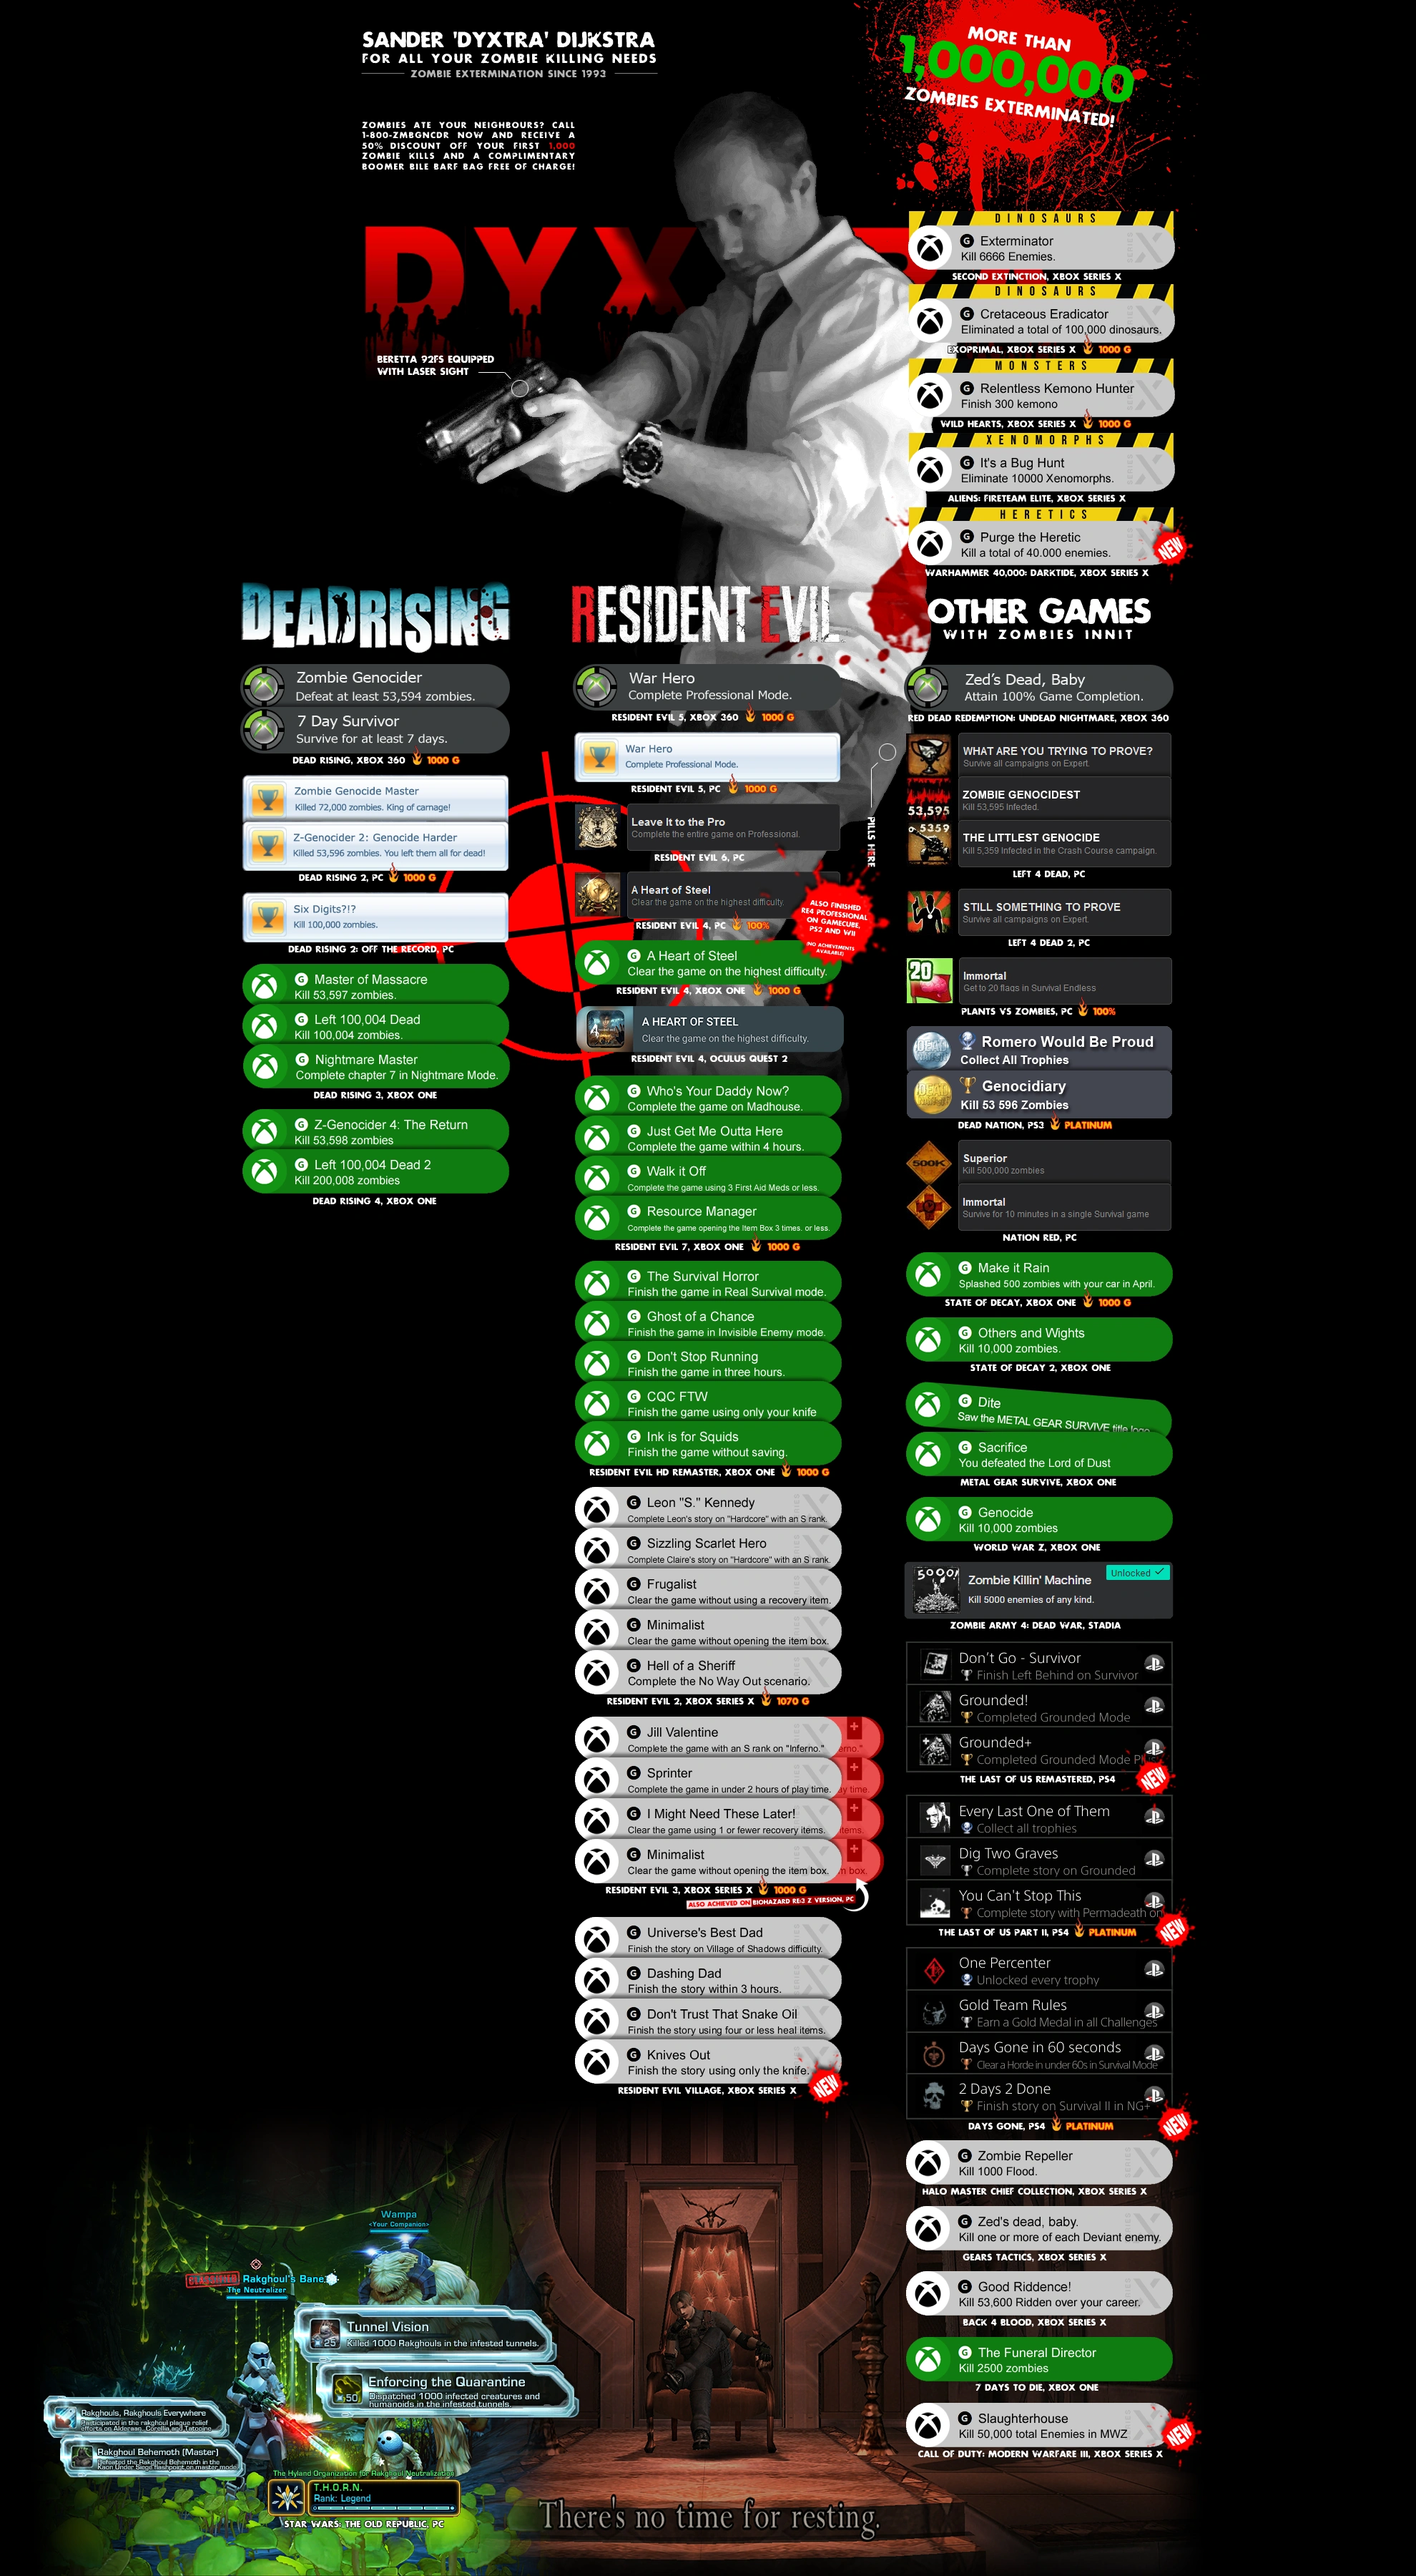
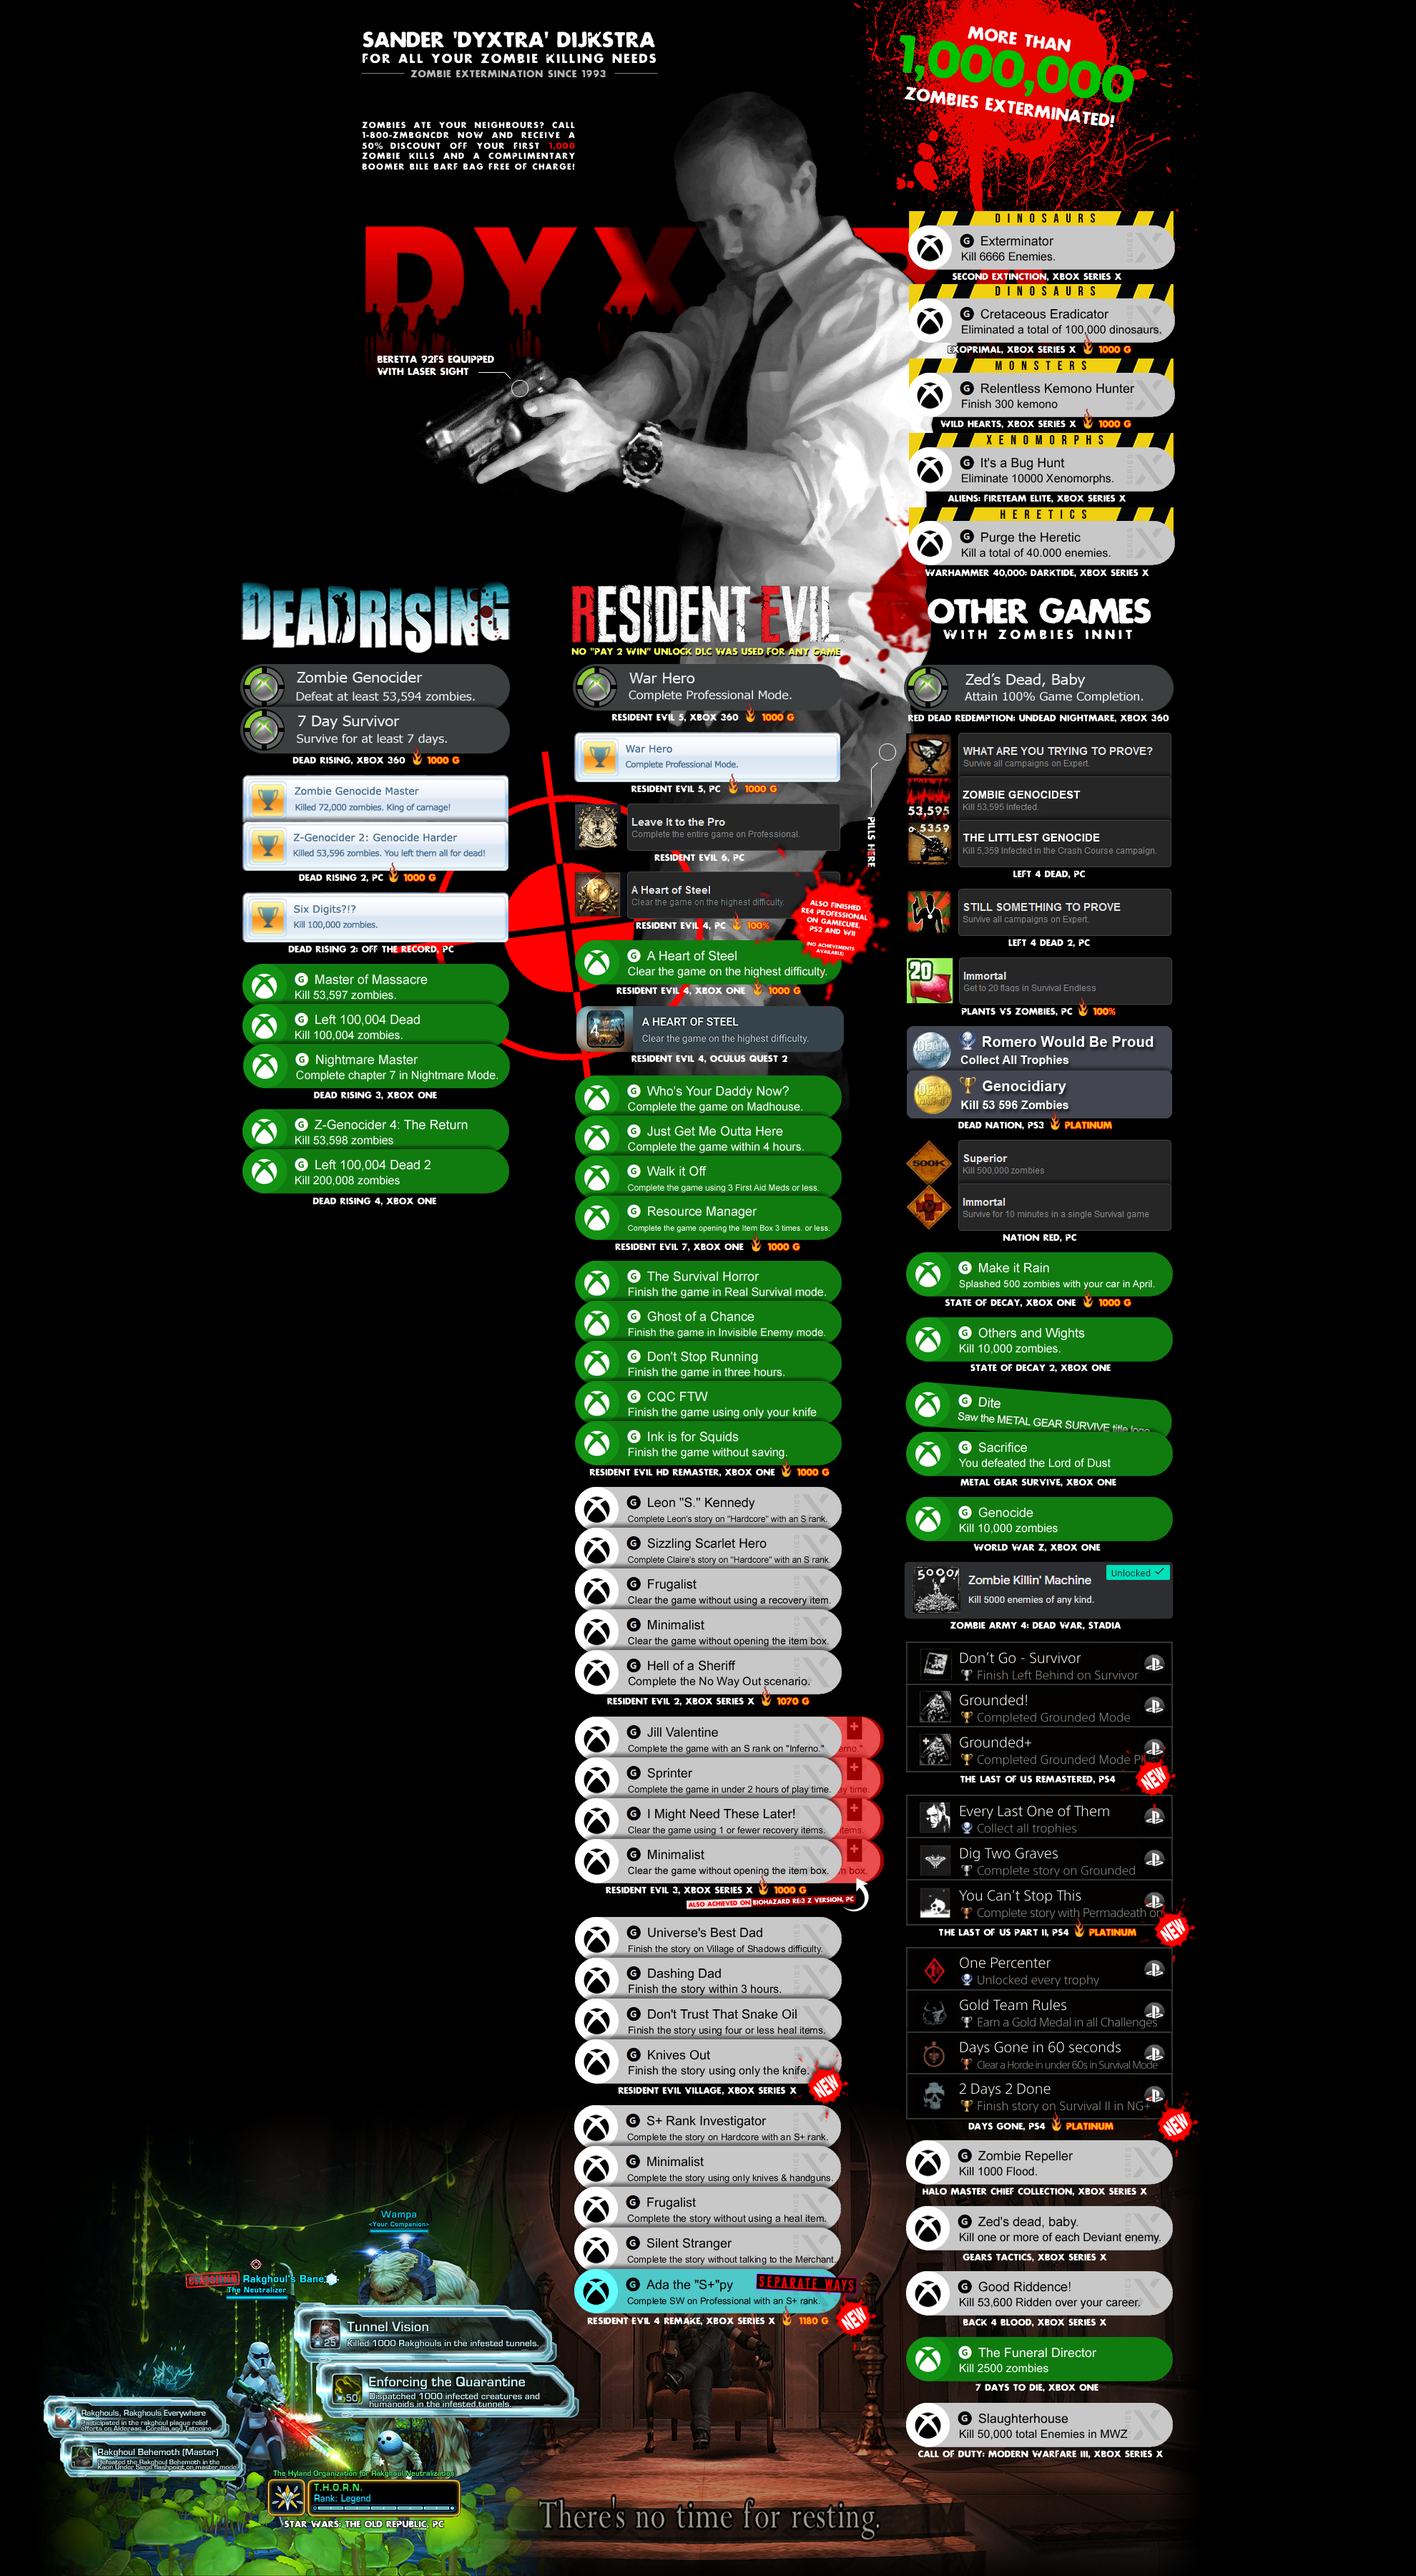
.

diff --git a/index.html b/index.html
@@ -65,6 +65,14 @@
 	<figcaption style="color: #fff;background: rgba(0, 0, 0, 0.5);">🧟🧟🧟</figcaption>
 </figure>
 
+<figure style="position: absolute; top: 2930px; left: 50%; margin-left: 140px; transform: rotate(3deg); ">
+	<a href="i/re4r_pro_splus.webp" target="_blank"><img src="i/re4r_pro_splus_th.jpg" style="width: 120px;  height: 67px; border-radius: 8px; border-bottom: 3px solid #e50400;"></a>
+</figure>
+
+<figure style="position: absolute; top: 3025px; left: 50%; margin-left: -255px; transform: rotate(-3deg); ">
+	<a href="i/re4r_notime.jpg" target="_blank"><img src="i/re4r_notime_th.jpg" style="width: 120px;  height: 67px; border-radius: 8px; border-bottom: 3px solid #e50400;"></a>
+</figure>
+
 <img src="v/toast.webp" alt="" style="position: absolute; top: 1986px; left: 50%; margin-left: -187px; width: 62px;  height: 62px; border-radius: 50%;">
 <img src="v/visor.gif" alt="" style="position: absolute; top: 3280px; left: 50%; margin-left: -644px; width: 37px;  height: 26px;">
 
